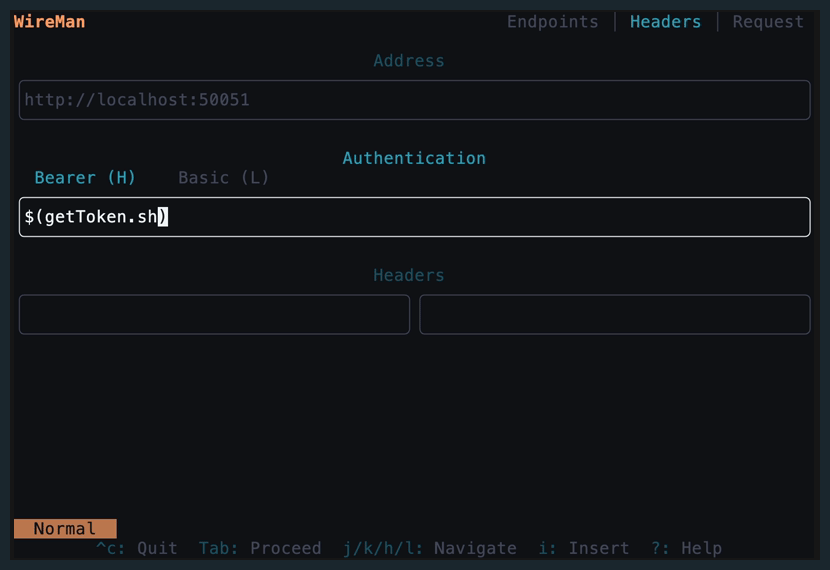
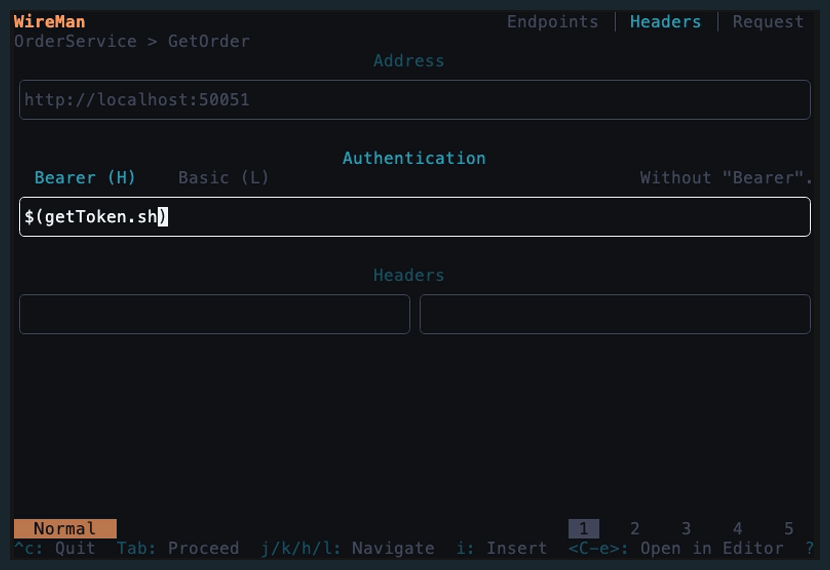
update tapes and website

Changed region(s): [[0.0301, 0.2982, 0.994, 0.4175], [0.0301, 0.8947, 0.9337, 0.9842], [0.0, 0.0298, 0.3012, 0.0895]]

diff --git a/website/src/lib/MoreFeatures.svelte b/website/src/lib/MoreFeatures.svelte
@@ -1,7 +1,8 @@
 <script lang="ts">
-    import ImgResponse from '$lib/assets/website_271.png';
-    import ImgConfig from '$lib/assets/website_439.png';
-    import ImgReflection from '$lib/assets/website_476.png';
+    import ImgOpenEditor from '$lib/assets/website_249.png';
+    import ImgResponse from '$lib/assets/website_277.png';
+    import ImgConfig from '$lib/assets/website_460.png';
+    import ImgReflection from '$lib/assets/website_526.png';
 
     type ShowElement = {
         title: string;
@@ -11,6 +12,15 @@
     };
 
     let elements: ShowElement[] = [
+        {
+            title: 'Open in system editor',
+            img: ImgOpenEditor,
+            body: `
+          <p style="text-align: center; line-height:1.6em">
+              Press <code>&ltC-e&gt</code> in any input field in normal mode to open the content in your system editor.
+          </p>
+`
+        },
         {
             title: 'Save history',
             img: ImgResponse,
